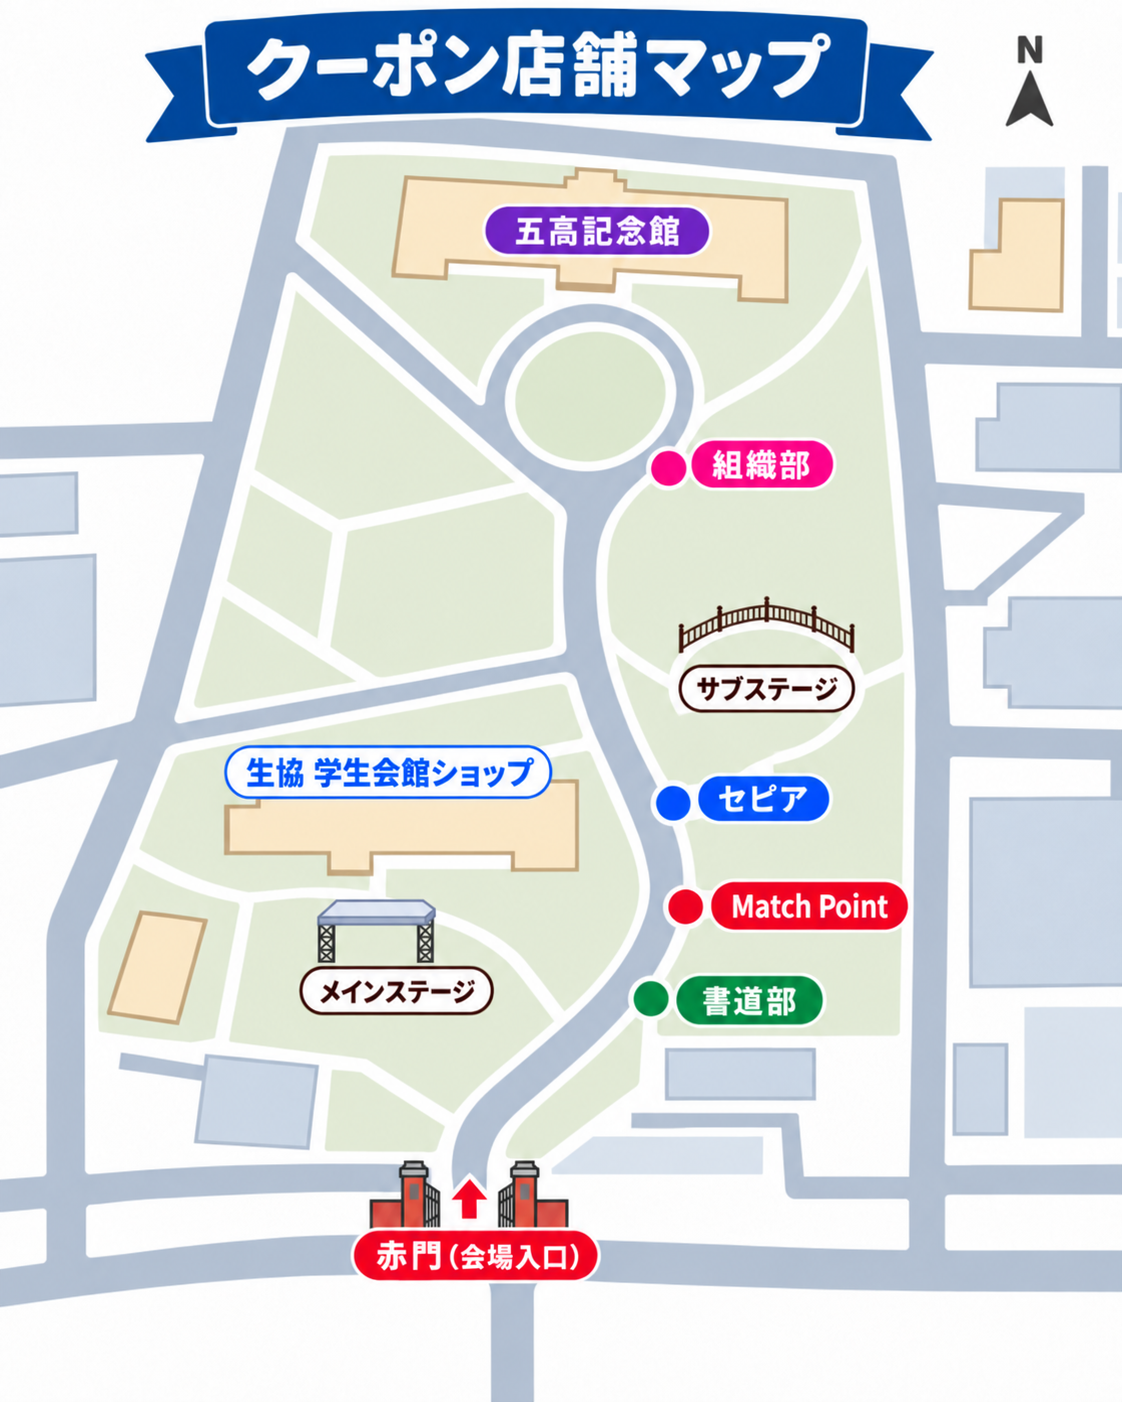
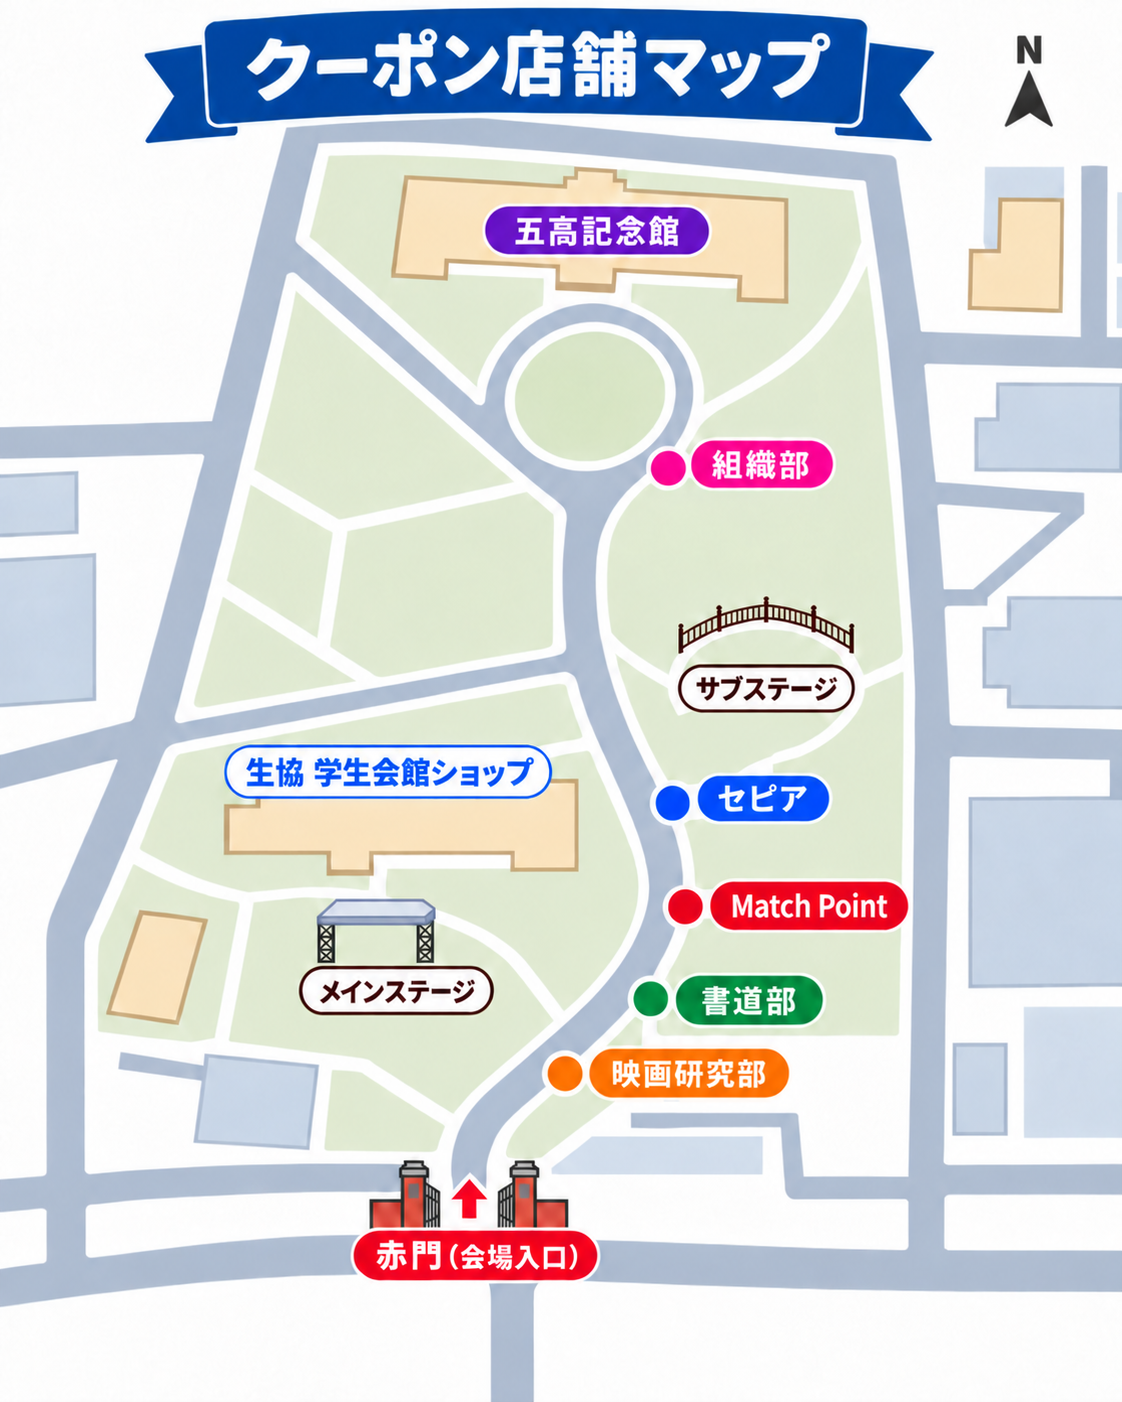
Add files via upload

diff --git a/service-worker.js b/service-worker.js
@@ -1,4 +1,4 @@
-const CACHE_NAME = "sigma-login-auto-sync-v50";
+const CACHE_NAME = "sigma-coupon-map-movieclub-v51";
 
 const CORE_ASSETS = [
   "./home.html",
